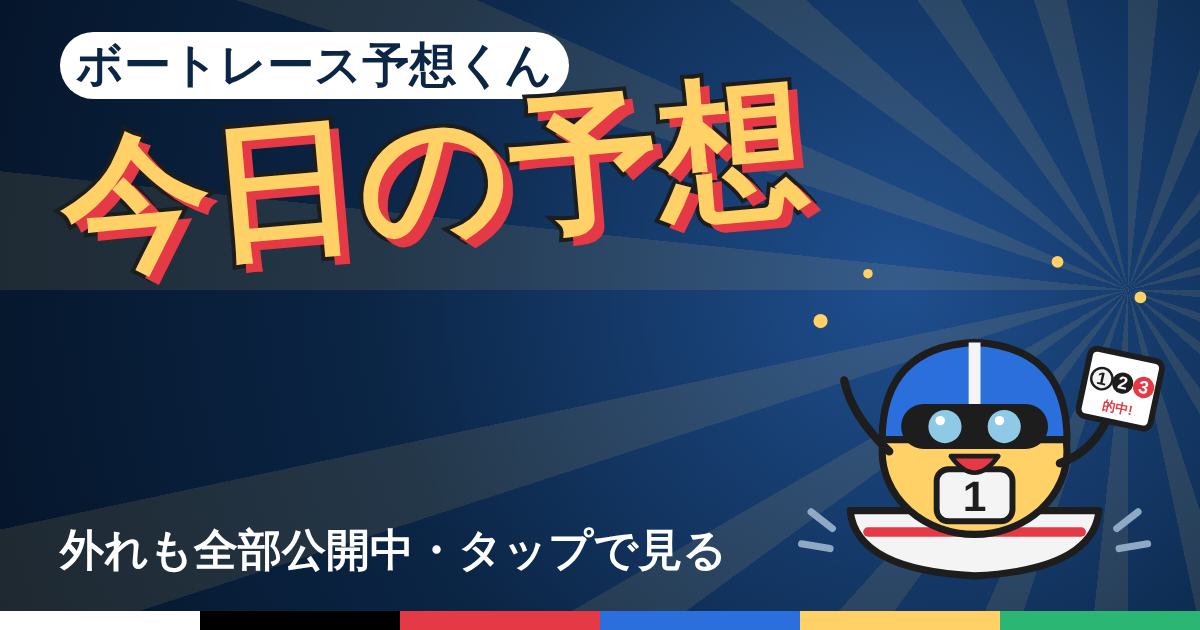
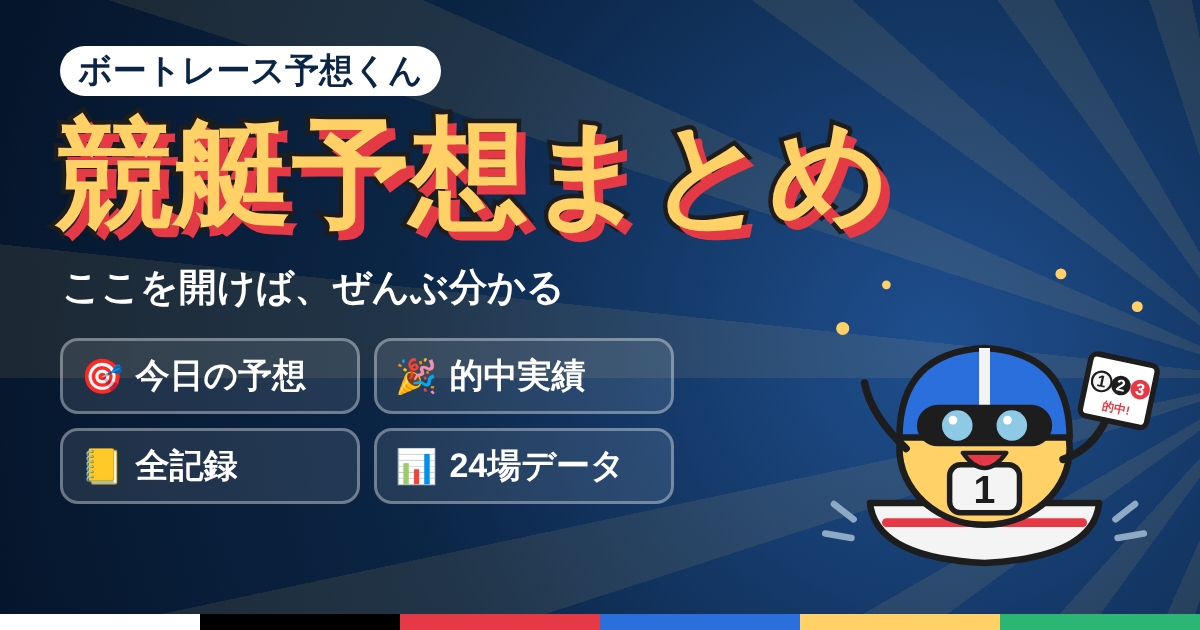
窓口用のOGPに変更
Claude-Session: https://claude.ai/code/session_015oKauCSvti6xWBnb93qy6n

diff --git a/index.html b/index.html
@@ -1,8 +1,8 @@
 <!doctype html><html lang="ja"><head><meta charset="utf-8">
-<title>ボートレース予想くん|今日の予想と全記録</title>
+<title>ボートレース予想くん|競艇予想まとめ</title>
 <meta name="viewport" content="width=device-width,initial-scale=1">
-<meta property="og:title" content="ボートレース予想くん|今日の予想">
-<meta property="og:description" content="展示とオッズを見てから出す本命予想。外れも全部記録しています。">
+<meta property="og:title" content="ボートレース予想くん|競艇予想まとめ">
+<meta property="og:description" content="今日の予想・的中実績・全記録・24場データが全部ここに。">
 <meta property="og:image" content="https://haruharuyukai2026-ux.github.io/yosoukun-cards/thumbs/ogp.png">
 <meta property="og:image:width" content="1200"><meta property="og:image:height" content="630">
 <meta property="og:url" content="https://haruharuyukai2026-ux.github.io/yosoukun-cards/">
